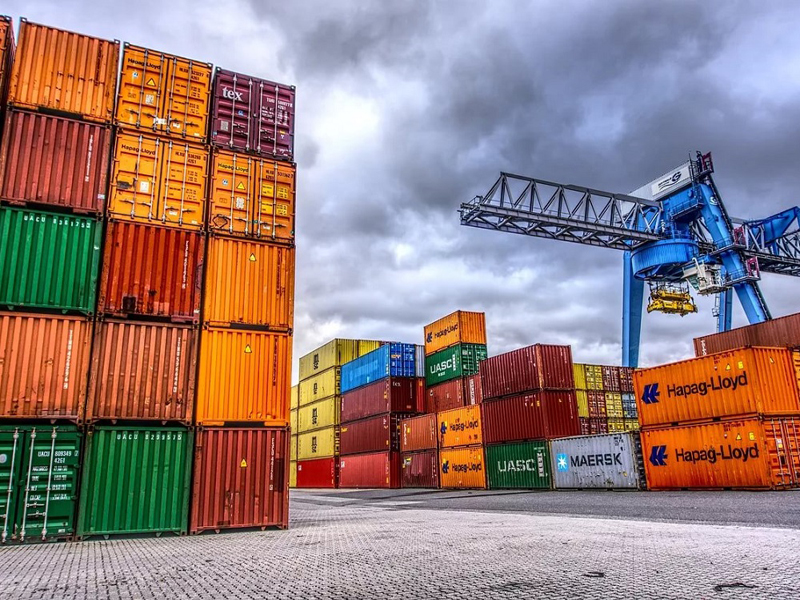
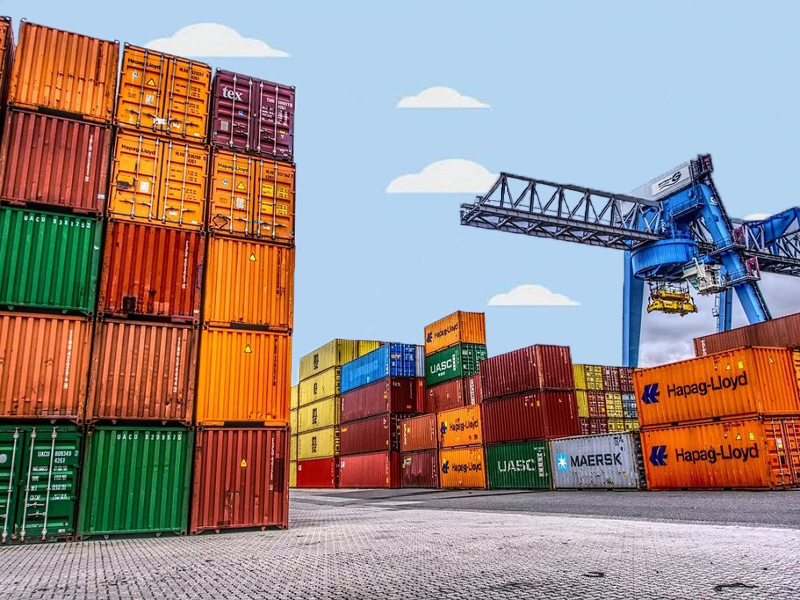
Fourth commit Добавлена анимация бега персонажа Добавлены новые блоки 100x100 Плавный переход стартового фона на фон неба Уменьшена мобильность персонажа

Changed region(s): [[0.0, 0.0, 1.0, 0.66]]

diff --git a/main.py b/main.py
@@ -7,6 +7,8 @@ import pygame
 size = width, height = 500, 600
 window_name = "Dodge from blocks"
 fps = 60
+# метры
+meters = 0
 
 # Цвета
 WHITE = (255, 255, 255)
@@ -28,29 +30,34 @@ bg2_duplicate = bg2.copy()
 
 
 class Player(pygame.sprite.Sprite):
-    player_image = pygame.image.load(f'{img_folder}/character.png').convert()
+    player_image = pygame.image.load(f"{img_folder}/walk/walk_left/1.png").convert()
 
     def __init__(self, x, y):
         pygame.sprite.Sprite.__init__(self)
         self.width, self.height = 30, 40
         self.image = Player.player_image
         self.image.set_colorkey(WHITE)
+        self.animation_left = [pygame.image.load(f"{img_folder}/walk/walk_left/{i}.png") for i in range(1, 10)]
+        self.animation_right = [pygame.image.load(f"{img_folder}/walk/walk_right/{i}.png") for i in range(1, 10)]
         self.rect = self.image.get_rect()
         self.rect.x, self.rect.y = x, y
-        self.move_speed = 10
+        self.move_speed = 8
         self.speedx = 0
         self.speedy = 0
         self.jump_power = 10
         self.gravity = 0.35
         self.onground = False
+        self.count_anim = 0
 
     def update(self, objects):
         self.speedx = 0
         keypressed = pygame.key.get_pressed()
         if keypressed[pygame.K_LEFT]:
             self.speedx -= self.move_speed
+            self.image = self.animation_left[self.count_anim // 6 - 1]
         if keypressed[pygame.K_RIGHT]:
             self.speedx += self.move_speed
+            self.image = self.animation_right[self.count_anim // 6 - 1]
         if keypressed[pygame.K_UP]:
             if self.onground:
                 self.speedy -= self.jump_power
@@ -63,6 +70,10 @@ class Player(pygame.sprite.Sprite):
 
         self.rect.x += self.speedx
         self.collisions(self.speedx, 0, objects)
+
+        self.count_anim += 1
+        if self.count_anim == 30:
+            self.count_anim = 0
 
     def collisions(self, x, y, objects):
         for object in objects:
@@ -78,6 +89,9 @@ class Player(pygame.sprite.Sprite):
                 if y < 0:
                     self.rect.top = object.rect.bottom
                     self.speedy = 0
+                if object.is_flying:
+                    # Потом будем заканчивать игру
+                    print('коробка упала сверху')
 
 
 class Obstacle(pygame.sprite.Sprite):
@@ -87,6 +101,7 @@ class Obstacle(pygame.sprite.Sprite):
     metalBoxBlue100x50 = pygame.image.load(f'{img_folder}/metalBoxBlue100x50.png').convert()
     metalBoxRed50x50 = pygame.image.load(f'{img_folder}/metalBoxRed50x50.png').convert()
     metalBoxRed100x50 = pygame.image.load(f'{img_folder}/metalBoxRed100x50.png').convert()
+    metalBoxGray100x100 = pygame.image.load(f'{img_folder}/metalBoxGray100x100.jpg').convert()
 
     def __init__(self, x, y, width, height, s, type='box'):
         pygame.sprite.Sprite.__init__(self)
@@ -98,7 +113,8 @@ class Obstacle(pygame.sprite.Sprite):
                                         Obstacle.metalBoxBlue50x50,
                                         Obstacle.metalBoxBlue100x50,
                                         Obstacle.metalBoxRed100x50,
-                                        Obstacle.metalBoxRed50x50])
+                                        Obstacle.metalBoxRed50x50,
+                                        Obstacle.metalBoxGray100x100])
             self.rect = self.image.get_rect()
             if self.rect.width == 100:
                 self.rect.x = random.randint(0, 8) * 50
@@ -136,8 +152,8 @@ def draw_meters(screen, x, y, text):
 
 
 def main():
-    # метры
-    meters = 0
+    global meters
+    # самый высокий блок
     top = 0
 
     # сдвиг фона
@@ -168,7 +184,7 @@ def main():
 
     running = True
     while running:
-        dt = clock.tick(fps) / 10
+        dt = clock.tick(fps) / 5
         # События
         for event in pygame.event.get():
             if event.type == pygame.QUIT:
@@ -180,7 +196,7 @@ def main():
 
         for box in barrier:
             if box != floor and box != left_wall and box != right_wall:
-                if box.rect.y <= 200 and not box.is_flying:
+                if box.rect.y <= 300 and not box.is_flying:
                     top = box.rect.y
         if top:
             for box in barrier:
